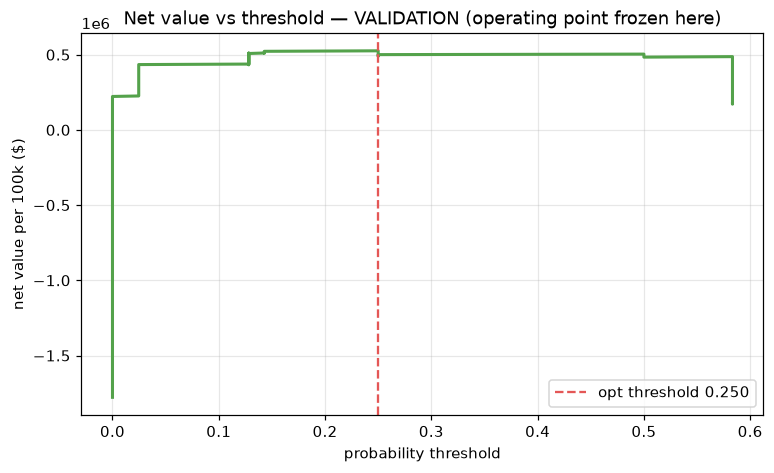
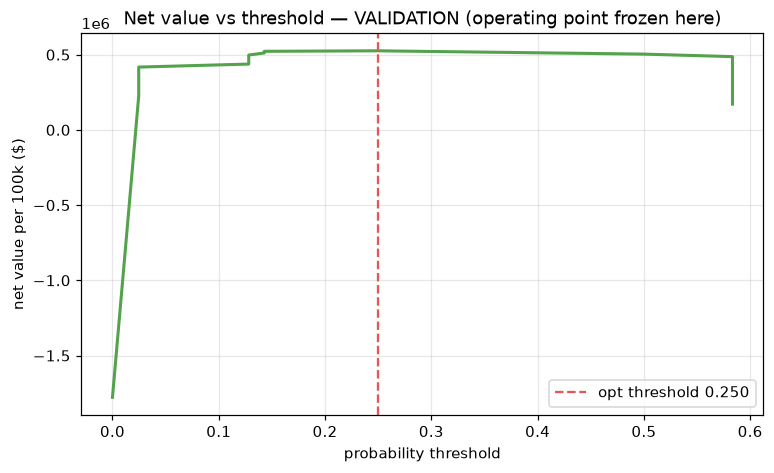
fix(decisions): make operating-point curve realizable under tied probabilities
Adversarial review of the decision layer (4/5 lenses clean) found that
net_value_curve treated every row of a tied-probability block as an independent
operating point, but a scalar `proba >= threshold` cannot alert a *partial* tie
block. Isotonic calibration is a step function with large tie blocks (val: 22
unique probabilities over 750 rows), so optimize_operating_point reported a VAL net
value the model could not achieve and disagreed with evaluate_at_threshold.

Fix: collapse tied-probability blocks to the last row of each run, so every curve
point is realizable by `>=`. optimize_operating_point now agrees exactly with
evaluate_at_threshold (verified on the real tie-heavy val set). Regenerated the
decision report + operating_point.json with the corrected, realizable VAL figures;
the HOLDOUT statement is unchanged (it always used the `>=` path). Regression tests
added (tied-probability realizability + every-curve-point-realizable).

diff --git a/tests/test_decisions.py b/tests/test_decisions.py
@@ -57,6 +57,29 @@ def test_sensitivity_table_threshold_monotonic_in_cost():
     assert all(a <= b + 1e-9 for a, b in zip(thr, thr[1:], strict=False))
 
 
+def test_optimize_is_realizable_on_tied_probabilities():
+    """Regression: with tied probabilities the optimum must be reachable by `>=`."""
+    y = np.array([1, 0, 0, 0, 0])
+    proba = np.array([0.5, 0.5, 0.5, 0.5, 0.5])  # one giant tie block
+    amt = np.array([500.0, 10.0, 10.0, 10.0, 10.0])
+    op = decisions.optimize_operating_point(y, proba, amt, review_cost=25.0)
+    realized = decisions.evaluate_at_threshold(y, proba, amt, op["threshold"], 25.0)
+    assert op["alerts"] == realized["alerts"]
+    assert op["net_value"] == realized["net_value"]  # not the unrealizable $475
+
+
+def test_every_curve_point_is_realizable_under_heavy_ties():
+    rng = np.random.default_rng(0)
+    y = (rng.random(300) < 0.2).astype(int)
+    proba = np.round(rng.random(300), 1)  # ~11 distinct values -> many ties
+    amt = rng.random(300) * 100 + 10
+    curve = decisions.net_value_curve(y, proba, amt, review_cost=25.0)
+    for _, row in curve.iterrows():
+        realized = decisions.evaluate_at_threshold(y, proba, amt, row["threshold"], 25.0)
+        assert row["alerts"] == realized["alerts"]
+        assert abs(row["net_value"] - realized["net_value"]) < 1e-6
+
+
 def test_statement_mentions_capture_fpr_and_net():
     stats = decisions.evaluate_at_threshold(Y, PROBA, AMOUNTS, threshold=0.4, review_cost=25.0)
     s = decisions.operating_point_statement(stats, provenance="synthetic")

diff --git a/pipeline/decisions.py b/pipeline/decisions.py
@@ -56,7 +56,7 @@ def net_value_curve(
     review_cost_total = review_cost * alerts
     net_value = fraud_value_caught - review_cost_total
 
-    return pd.DataFrame(
+    curve = pd.DataFrame(
         {
             "threshold": p_s,
             "alerts": alerts,
@@ -73,6 +73,15 @@ def net_value_curve(
             "net_per_100k": net_value / n * 100_000,
         }
     )
+    # Collapse tied-probability blocks: keep only the LAST row of each run, so every
+    # candidate threshold is realizable by a scalar `proba >= threshold` (you cannot
+    # alert a *partial* tie block). Isotonic calibration is a step function and
+    # produces large tie blocks, so without this the optimizer would report an
+    # operating point that neither `evaluate_at_threshold` nor serving can achieve.
+    keep = np.empty(n, dtype=bool)
+    keep[-1] = True
+    keep[:-1] = p_s[:-1] != p_s[1:]
+    return curve[keep].reset_index(drop=True)
 
 
 def optimize_operating_point(

diff --git a/docs/experiments.md b/docs/experiments.md
@@ -50,7 +50,7 @@ Isotonic (default) and Platt calibration maps are fit on VALIDATION. Under class
 ## Registered model
 
 - **Name:** `fraud-scoring`  ·  **version:** `1`
-- **Run id:** `f3c8918a1e1241e8baa9ad2994c55c52`  ·  **calibration:** isotonic
-- **URI:** `models:/m-cded982a1b69443ba8ce1df3deffca4c`
+- **Run id:** `1449d41574ac40afa668f09d2a6bf72c`  ·  **calibration:** isotonic
+- **URI:** `models:/m-5d36901da7e34b4a89b4b4c7bc48ea3e`
 
 The registered model is the isotonic-calibrated XGBoost. Its version and run id travel with the serving artifact and are reported by `/healthz` (Phase D).
